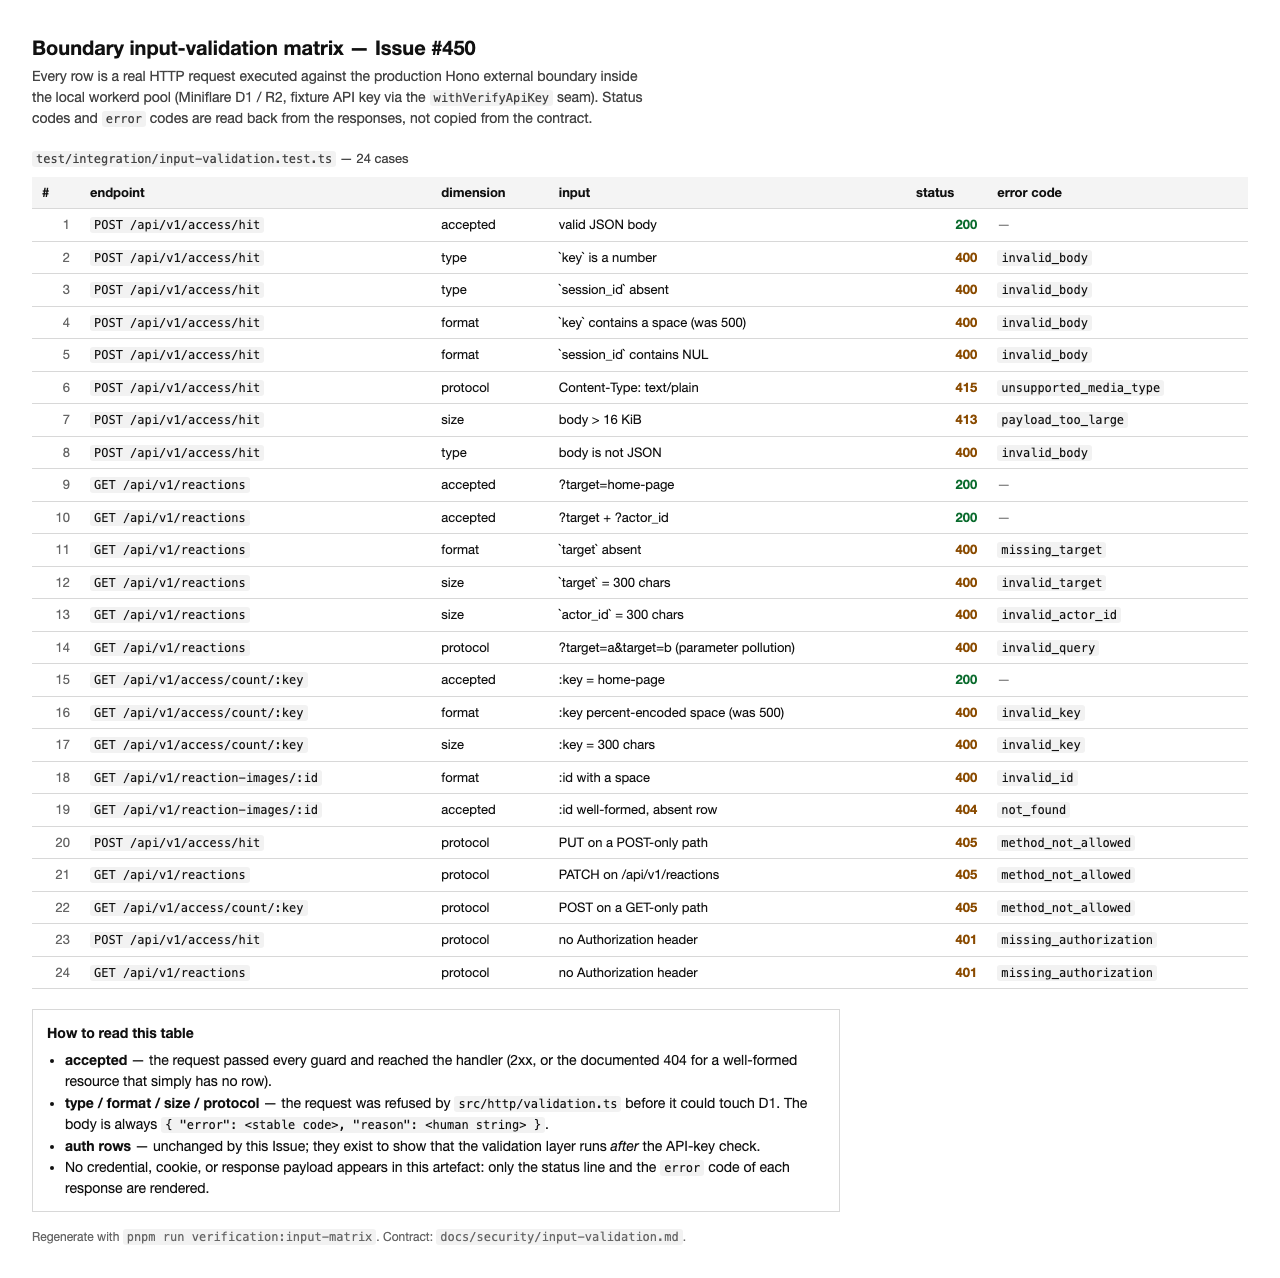
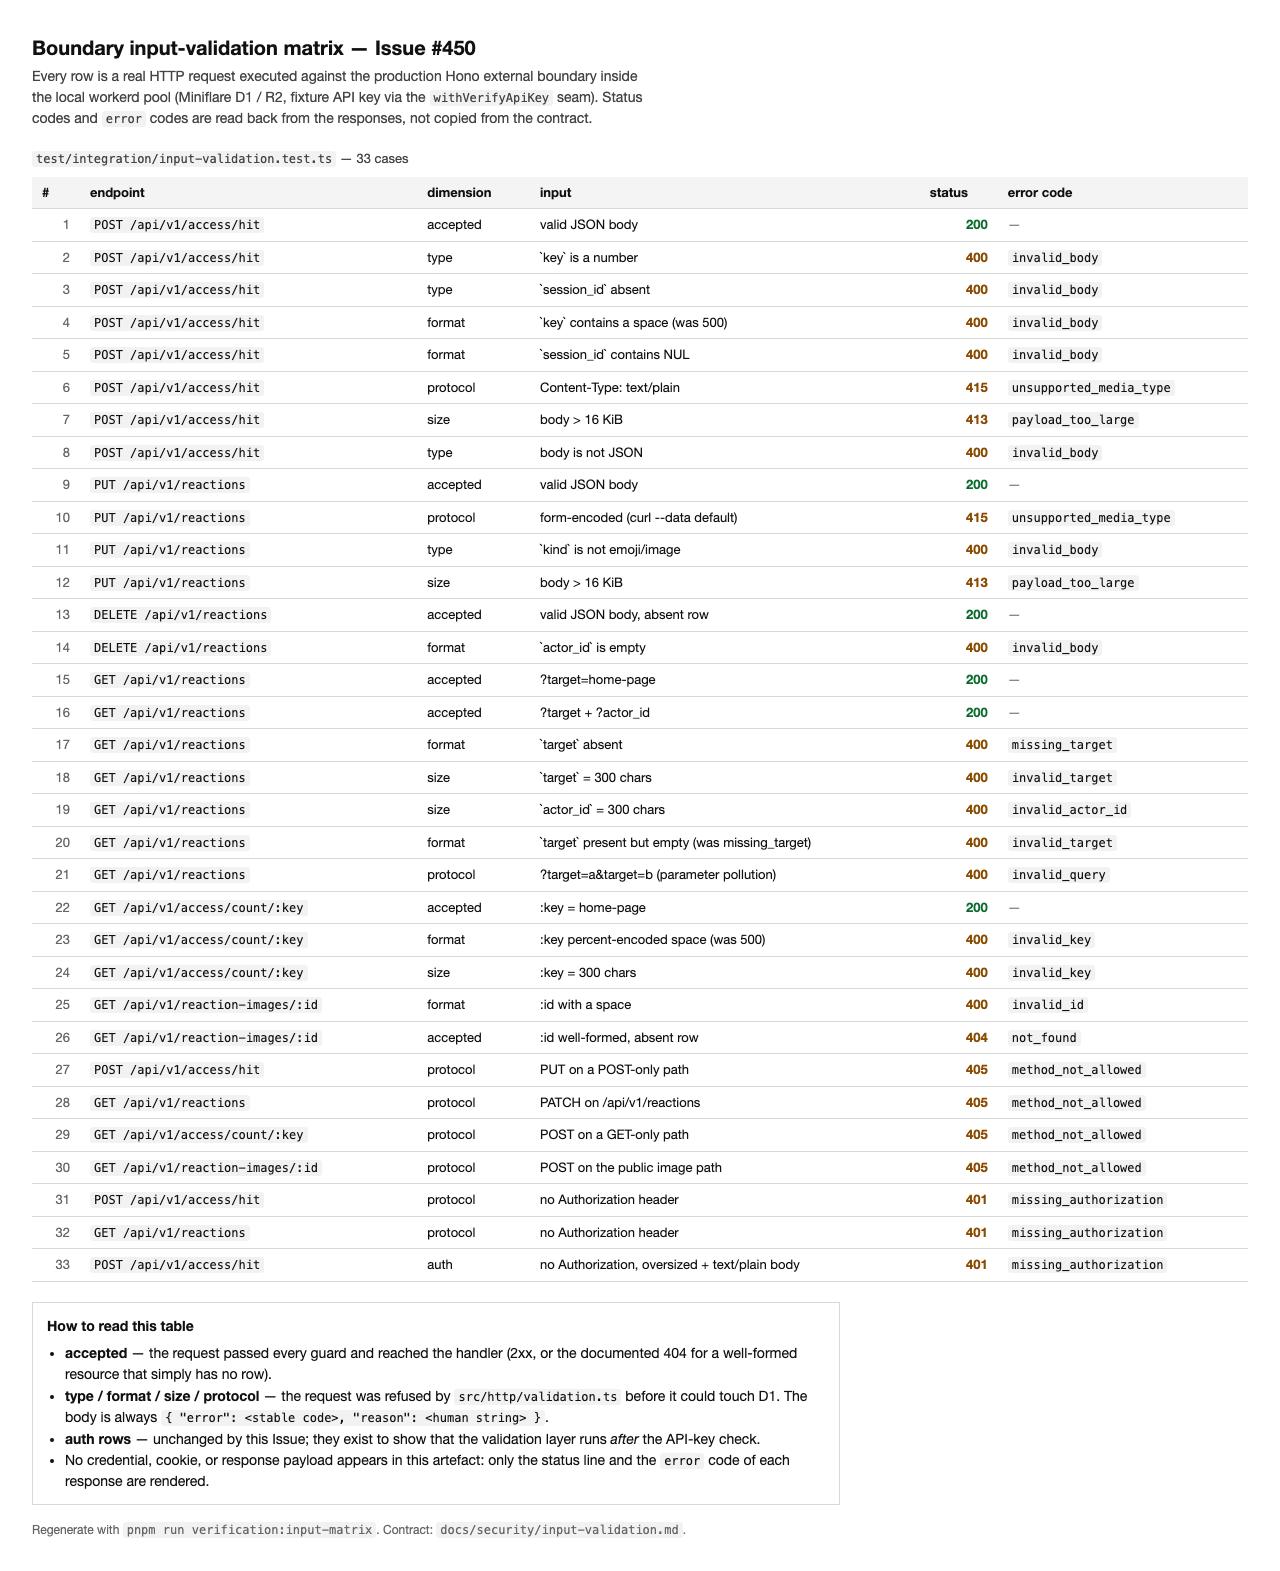
docs(http): correct the media-type compatibility record and cover it (#450)
The `isJsonContentType` comment claimed `curl --data-binary` sends a
wildcard media type. It does not: curl defaults to
`application/x-www-form-urlencoded`, which this boundary rejects with
`415`. The claim is false, it contradicts the shipped unit test, and it
hid an observable break of the pre-#450 contract from the operational
record.

- `src/http/validation.ts`: replace the rationale with the real one
  (wildcard / absent header are accepted because the pre-#450 handlers
  called `c.req.json()`, which ignores Content-Type) and state the
  form-encoded break plus the open policy decision.
- `docs/security/input-validation.md`: split §4 into the three kinds of
  observable change (accepted -> defined rejection, 500 -> defined 400,
  same status with a different meaning) so the `415` / `413` /
  `invalid_query` / `403`-over-`400` changes are all recorded; note that
  the size guard bounds the request, not Worker memory; fix 検証维度.
- `docs/security.md`: scope the four-dimension claim to the endpoints in
  §3 (Better Auth and the health/ping routes are out of scope).
- `test/integration/input-validation.test.ts`: add the nine rows the
  contract claimed but did not pin - `PUT` / `DELETE /api/v1/reactions`
  accepted and rejected, the form-encoded `415`, the reaction-images
  verb guard, empty `?target=`, and the auth-before-validation order.
- Regenerate the verification matrix PNG (33 cases).

Changed region(s): [[0.0, 0.0, 0.9688, 0.9765]]

diff --git a/test/integration/input-validation.test.ts b/test/integration/input-validation.test.ts
@@ -83,8 +83,12 @@ const AUTH = { authorization: 'Bearer mk_home_matrix-fixture' };
 const HUMAN_UA = 'Mozilla/5.0 (Macintosh; Intel Mac OS X 10_15_7) matrix-fixture';
 const JSON_HEADERS = { ...AUTH, 'content-type': 'application/json', 'user-agent': HUMAN_UA };
 
-/** Dimensions under test — the four input classes the issue names. */
-type Dimension = 'accepted' | 'size' | 'format' | 'protocol' | 'type';
+/**
+ * Dimensions under test — the four input classes the issue names,
+ * plus `accepted` (reached the handler) and `auth` (proves the
+ * middleware order: authentication runs before validation).
+ */
+type Dimension = 'accepted' | 'size' | 'format' | 'protocol' | 'type' | 'auth';
 type Group = 'body' | 'query' | 'path' | 'protocol' | 'auth';
 
 interface MatrixCase {
@@ -103,6 +107,13 @@ interface MatrixCase {
 
 const LONG = 'x'.repeat(300);
 const ACTOR = 'a1b2c3d4e5f60718293a4b5c6d7e8f90';
+/** Valid `PUT` / `DELETE /api/v1/reactions` body (emoji kind). */
+const REACTION_BODY = {
+	target_key: 'home-page',
+	actor_id: ACTOR,
+	kind: 'emoji',
+	value: '👍',
+} as const;
 
 const CASES: readonly MatrixCase[] = [
 	// ---------------------------------------------------------------- body
@@ -217,6 +228,89 @@ const CASES: readonly MatrixCase[] = [
 		status: 400,
 		code: 'invalid_body',
 	},
+	// ------------------------------------------------- body (reactions)
+	{
+		group: 'body',
+		endpoint: 'PUT /api/v1/reactions',
+		dimension: 'accepted',
+		label: 'valid JSON body',
+		request: {
+			method: 'PUT',
+			path: '/api/v1/reactions',
+			headers: JSON_HEADERS,
+			body: JSON.stringify(REACTION_BODY),
+		},
+		status: 200,
+	},
+	{
+		group: 'body',
+		endpoint: 'PUT /api/v1/reactions',
+		dimension: 'protocol',
+		label: 'form-encoded (curl --data default)',
+		request: {
+			method: 'PUT',
+			path: '/api/v1/reactions',
+			headers: { ...AUTH, 'content-type': 'application/x-www-form-urlencoded' },
+			body: JSON.stringify(REACTION_BODY),
+		},
+		status: 415,
+		code: 'unsupported_media_type',
+	},
+	{
+		group: 'body',
+		endpoint: 'PUT /api/v1/reactions',
+		dimension: 'type',
+		label: '`kind` is not emoji/image',
+		request: {
+			method: 'PUT',
+			path: '/api/v1/reactions',
+			headers: JSON_HEADERS,
+			body: JSON.stringify({ ...REACTION_BODY, kind: 'sticker' }),
+		},
+		status: 400,
+		code: 'invalid_body',
+	},
+	{
+		group: 'body',
+		endpoint: 'PUT /api/v1/reactions',
+		dimension: 'size',
+		label: `body > ${MAX_JSON_BODY_BYTES / 1024} KiB`,
+		request: {
+			method: 'PUT',
+			path: '/api/v1/reactions',
+			headers: JSON_HEADERS,
+			body: JSON.stringify({ ...REACTION_BODY, actor_id: 'a'.repeat(MAX_JSON_BODY_BYTES) }),
+		},
+		status: 413,
+		code: 'payload_too_large',
+	},
+	{
+		group: 'body',
+		endpoint: 'DELETE /api/v1/reactions',
+		dimension: 'accepted',
+		label: 'valid JSON body, absent row',
+		request: {
+			method: 'DELETE',
+			path: '/api/v1/reactions',
+			headers: JSON_HEADERS,
+			body: JSON.stringify({ ...REACTION_BODY, target_key: 'never-put-page' }),
+		},
+		status: 200,
+	},
+	{
+		group: 'body',
+		endpoint: 'DELETE /api/v1/reactions',
+		dimension: 'format',
+		label: '`actor_id` is empty',
+		request: {
+			method: 'DELETE',
+			path: '/api/v1/reactions',
+			headers: JSON_HEADERS,
+			body: JSON.stringify({ ...REACTION_BODY, actor_id: '' }),
+		},
+		status: 400,
+		code: 'invalid_body',
+	},
 	// --------------------------------------------------------------- query
 	{
 		group: 'query',
@@ -268,6 +362,15 @@ const CASES: readonly MatrixCase[] = [
 		},
 		status: 400,
 		code: 'invalid_actor_id',
+	},
+	{
+		group: 'query',
+		endpoint: 'GET /api/v1/reactions',
+		dimension: 'format',
+		label: '`target` present but empty (was missing_target)',
+		request: { method: 'GET', path: '/api/v1/reactions?target=', headers: AUTH },
+		status: 400,
+		code: 'invalid_target',
 	},
 	{
 		group: 'query',
@@ -368,6 +471,16 @@ const CASES: readonly MatrixCase[] = [
 		code: 'method_not_allowed',
 		header: ['allow', 'GET'],
 	},
+	{
+		group: 'protocol',
+		endpoint: 'GET /api/v1/reaction-images/:id',
+		dimension: 'protocol',
+		label: 'POST on the public image path',
+		request: { method: 'POST', path: '/api/v1/reaction-images/deadbeef', headers: {} },
+		status: 405,
+		code: 'method_not_allowed',
+		header: ['allow', 'GET'],
+	},
 	// ---------------------------------------------------------------- auth
 	{
 		group: 'auth',
@@ -389,6 +502,20 @@ const CASES: readonly MatrixCase[] = [
 		dimension: 'protocol',
 		label: 'no Authorization header',
 		request: { method: 'GET', path: '/api/v1/reactions?target=home-page' },
+		status: 401,
+		code: 'missing_authorization',
+	},
+	{
+		group: 'auth',
+		endpoint: 'POST /api/v1/access/hit',
+		dimension: 'auth',
+		label: 'no Authorization, oversized + text/plain body',
+		request: {
+			method: 'POST',
+			path: '/api/v1/access/hit',
+			headers: { 'content-type': 'text/plain', 'user-agent': HUMAN_UA },
+			body: 'x'.repeat(MAX_JSON_BODY_BYTES + 1),
+		},
 		status: 401,
 		code: 'missing_authorization',
 	},

diff --git a/src/http/validation.ts b/src/http/validation.ts
@@ -141,11 +141,26 @@ export interface JsonBodyOptions {
  * Content-Type guard for JSON endpoints.
  *
  * `application/json` is required and `application/*+json` is accepted
- * (structured-suffix JSON, RFC 6839). A wildcard media type — which
- * `curl --data-binary` sends by default — is accepted so scripted
- * callers are not broken, and an absent header is treated the same
- * way. Anything else is a protocol mismatch, not a bad value, so it is
- * answered with `415` instead of a `400` about the body.
+ * (structured-suffix JSON, RFC 6839). Two cases are accepted that do
+ * not name a media type at all — a wildcard (`*` followed by `/`) and
+ * an absent header — because that is what callers which never
+ * declared one send, and before Issue #450 the handlers called
+ * `c.req.json()`, which ignores Content-Type entirely and served them.
+ * Accepting them keeps that behaviour unchanged.
+ *
+ * A caller that *declares* a non-JSON media type is a protocol
+ * mismatch rather than a bad value, so it is answered with `415`
+ * instead of a `400` about the body.
+ *
+ * **Scripted callers.** `curl --data` and `curl --data-binary` send
+ * `application/x-www-form-urlencoded` — not a wildcard — so such a
+ * caller is now refused with `415` and must add
+ * `-H 'content-type: application/json'`. That is a real observable
+ * break of the pre-#450 contract and is recorded in
+ * `docs/security/input-validation.md` §4. Whether refusing
+ * form-encoded bodies is the intended long-term policy is an open
+ * owner decision (see the same section); the behaviour shipped here is
+ * the one the unit tests pin (`src/http/validation.test.ts`).
  */
 export function isJsonContentType(headers: Headers): boolean {
 	const raw = headers.get('content-type');

diff --git a/src/http/validation.test.ts b/src/http/validation.test.ts
@@ -36,6 +36,10 @@ describe('isJsonContentType', () => {
 
 	it('rejects anything that is not JSON', () => {
 		expect(isJsonContentType(new Headers({ 'content-type': 'text/plain' }))).toBe(false);
+		// `curl --data` / `curl --data-binary` default to this media
+		// type (not `*/*`), so scripted callers must now pass
+		// `-H 'content-type: application/json'`. See
+		// `docs/security/input-validation.md` §4.
 		expect(
 			isJsonContentType(new Headers({ 'content-type': 'application/x-www-form-urlencoded' })),
 		).toBe(false);

diff --git a/docs/security/input-validation.md b/docs/security/input-validation.md
@@ -28,6 +28,13 @@
   Zod failure は **最初の issue だけ**を `path: message` 形式で返す（旧実装は
   `error.message` まるごとを載せていた）。
 
+size ガードは **request の契約上の境界**であって memory の上限ではない。
+body は `c.req.text()` で一度読み切った後に実測バイト数を比較するため、
+`Content-Length` を持たない chunked request でも `413` になるが、その前に
+body は Worker memory に載る（上限は Cloudflare 側の request size / memory 制限が
+規律する）。`413` を「メモリを守る defense」と読まないこと。このルートは
+`requireApiKey` の後ろにあるので、到達するのは認証済み caller のみ。
+
 ## 2. 認証より**後**に検証する理由
 
 route の middleware 順は `requireApiKey` → `rateLimit*` → `jsonBody(...)` → handler で固定する。
@@ -42,7 +49,7 @@ route の middleware 順は `requireApiKey` → `rateLimit*` → `jsonBody(...)`
 
 実際に存在する API のみを対象にする（未実装 API の adapter は本 Issue の範囲外）。
 
-| Method + Path                     | 検証维度         | 不正入力時の応答                                              |
+| Method + Path                     | 検証軸           | 不正入力時の応答                                              |
 |-----------------------------------|------------------|--------------------------------------------------------------|
 | `POST /api/v1/access/hit`         | body             | `415` / `413` / `400 invalid_body`                          |
 | `PUT /api/v1/reactions`           | body             | `415` / `413` / `400 invalid_body`                          |
@@ -60,17 +67,41 @@ route の middleware 順は `requireApiKey` → `rateLimit*` → `jsonBody(...)`
 
 ## 4. 互換性メモ（=#450 で変わった observable な応答）
 
+**accepted → 定義済み拒否**（従来は handler に到達していたリクエスト）:
+
+| 変更前                                                              | 変更後                          |
+|---------------------------------------------------------------------|---------------------------------|
+| `Content-Type: text/plain` の JSON body → `c.req.json()` が parse して handler に到達 | `415 unsupported_media_type`   |
+| `Content-Type: application/x-www-form-urlencoded`（`curl --data` / `--data-binary` の既定値）→ 同上 | `415 unsupported_media_type`（scripted caller は `-H 'content-type: application/json'` が必須） |
+| 16 KiB 超の JSON body → D1 まで到達                                  | `413 payload_too_large`         |
+| 同一クエリ名の重複（`?target=a&target=b`）→ 最初の値が採用され handler に到達 | `400 invalid_query`        |
+| 上記 path の非対応 verb → `404 not_found`（リソースが無いという誤解を招く） | `405` + `Allow`            |
+
+**500 → 定義済み 400**（本 Issue で解消した実欠陥）:
+
 | 変更前                                                              | 変更後                          |
 |---------------------------------------------------------------------|---------------------------------|
 | `key` に空白を含む `POST /access/hit` → **500 internal_error**         | `400 invalid_body`              |
 | `:key` に空白を含む `GET /access/count/:key` → **500 internal_error** | `400 invalid_key`               |
-| 非対応 verb → `404 not_found`（リソースが無いという誤解を招く）    | `405` + `Allow`                 |
+
+**同じステータス / コードのまま意味が変わったもの**:
+
+| 変更前                                                              | 変更後                          |
+|---------------------------------------------------------------------|---------------------------------|
 | `?target=`（空文字）→ `400 missing_target`                            | `400 invalid_target`            |
 | `reason` に Zod の全 issue（JSON 文字列）が入っていた                | `reason` は1行の `path: message` |
+| scope を持たない key + 不正 body の `POST /access/hit` / `PUT`・`DELETE /reactions` → `403 missing_scope` | `400 invalid_body`（body 検証が `requireResourceAction` より先に走るため。どちらも定義済み 4xx） |
 
-ステータスコード_Errorコード_ の意味が変わるものは無く、`400` の一部が `405` /
-`413` / `415` に昇格する。home は `response.ok` しか見ない
-（`src/home/access/load.ts` / `src/home/reactions/load.ts`）ため影響を受けない。
+脈絡として、在庫の consumer（`src/home/access/load.ts` / `src/home/reactions/load.ts`）
+は既に `content-type: application/json` を付け、`response.ok` と `429` しか見ないので
+どれにも影響を受けない。影響を受けるのは **スクリプトから直接叩く外部 caller**
+だけである。
+
+**未決事項（owner 判断）**: `application/x-www-form-urlencoded` を `415` で拒否する
+方針自体は確定した契約ではない。代替として「`Content-Type` を無視して `JSON.parse`
+に委ねる」方針もあり得る。本 PR はコードと unit test が固定している現行の挙動
+（`415`）を維持し、決定は owner に委ねている。方針を変える場合は §1 の protocol 軸と
+§3 のテーブルも追随する。
 
 ## 5. 変更していない境界
 
@@ -93,7 +124,7 @@ pnpm exec vitest run --reporter=verbose test/integration/input-validation.test.t
 pnpm run verification:input-matrix
 ```
 
-`test/integration/input-validation.test.ts` は 24 ケースを実際の HTTP リクエストとして
+`test/integration/input-validation.test.ts` は 33 ケースを実際の HTTP リクエストとして
 local workerd pool（D1 / R2 binding 実物、API key は `withVerifyApiKey` seam の fixture）で
 実行し、観測した status / `error` code から matrix を出力する。PNG はその実測値の
 レンダリングであり、secret は含まれない（capture script が credential らしき行を検出したら

diff --git a/docs/security.md b/docs/security.md
@@ -31,12 +31,18 @@ authentication and origin checks per ADR-0002.
 
 ## Boundary input validation
 
-Every untrusted value that reaches `/api/v1/*` is validated by
-`src/http/validation.ts` on four dimensions — size, format, protocol,
-and type — and an invalid request always answers with a defined
-response (`400` / `405` / `413` / `415`) whose body is
+Every untrusted value on the `/api/v1/*` endpoints listed in
+[security/input-validation.md §3](security/input-validation.md#3-適用エンドポイントと応答)
+is validated by `src/http/validation.ts` on four dimensions — size,
+format, protocol, and type — and an invalid request always answers
+with a defined response (`400` / `405` / `413` / `415`) whose body is
 `{ error, reason }`. Client-side validation in the UI is a user
 convenience, never a security control.
+
+Not every `/api/v1/*` route is in that table, by design: `/api/v1/auth/*`
+is owned by Better Auth (which validates its own input), and
+`/api/v1/health`, `/api/v1/db/ping`, `/api/v1/media/ping` accept no
+untrusted input.
 
 The full contract, the per-endpoint table, and the reproduction
 commands live in [`security/input-validation.md`](security/input-validation.md).

diff --git a/src/http/reactions/README.md b/src/http/reactions/README.md
@@ -102,7 +102,7 @@ for the full contract. Every rejection below carries `{ error, reason }`.
 | 404 | `not_found` | image id not in the library |
 | 405 | `method_not_allowed` | verb not in `Allow` for this path |
 | 413 | `payload_too_large` | JSON body over `MAX_JSON_BODY_BYTES` (16 KiB) |
-| 415 | `unsupported_media_type` | `Content-Type` is not JSON |
+| 415 | `unsupported_media_type` | declared `Content-Type` is not `application/json` / `application/*+json` (a wildcard or an absent header is accepted; `curl --data` sends `application/x-www-form-urlencoded` and is refused — `docs/security/input-validation.md` §4) |
 | 422 | `unknown_image_id` | image-kind reaction referencing an image that does not exist |
 | 429 | `rate_limited` | budget exhausted |
 

diff --git a/src/http/access-counter/README.md b/src/http/access-counter/README.md
@@ -27,7 +27,7 @@ before any D1 statement runs.
 | 403 | `missing_scope` | key lacks the required scope |
 | 405 | `method_not_allowed` | verb not in `Allow` (`POST` on `/hit`, `GET` on `/count/:key`) |
 | 413 | `payload_too_large` | JSON body over `MAX_JSON_BODY_BYTES` (16 KiB) |
-| 415 | `unsupported_media_type` | `Content-Type` is not JSON |
+| 415 | `unsupported_media_type` | declared `Content-Type` is not `application/json` / `application/*+json` (a wildcard or an absent header is accepted; `curl --data` sends `application/x-www-form-urlencoded` and is refused — `docs/security/input-validation.md` §4) |
 | 429 | `rate_limited` | budget exhausted |
 
 ### POST /hit
